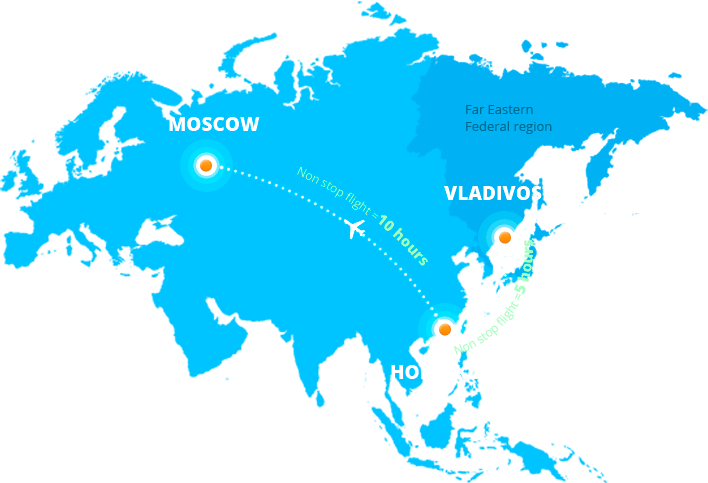
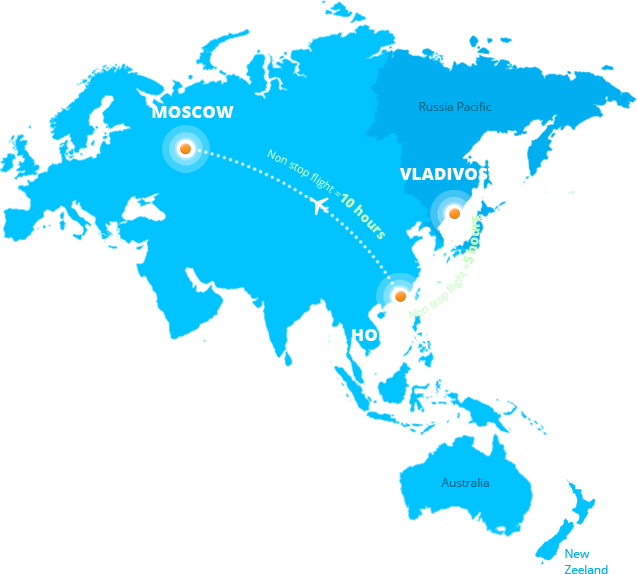
Добавить коммент

diff --git a/rusapai/css/main.css b/rusapai/css/main.css
@@ -7,6 +7,7 @@
 #page {
 	background: url("../images/top-bg.png") center -55px no-repeat;
 	height: 1588px;
+	min-width: 1000px;
 }
 body {
 	font-size: 1.000em;
@@ -61,6 +62,9 @@ footer #individ {
 	background: -ms-linear-gradient(top,  rgba(12,13,13,1) 0%,rgba(16,22,23,1) 35%,rgba(8,29,37,1) 70%,rgba(1,30,45,1) 99%,rgba(0,0,0,1) 100%);
 	background: linear-gradient(to bottom,  rgba(12,13,13,1) 0%,rgba(16,22,23,1) 35%,rgba(8,29,37,1) 70%,rgba(1,30,45,1) 99%,rgba(0,0,0,1) 100%);
 	filter: progid:DXImageTransform.Microsoft.gradient( startColorstr='#0c0d0d', endColorstr='#000000',GradientType=0 );
+
+	position: relative;
+	z-index: 10;
 }
 #page header section {
 	position: relative;
@@ -128,6 +132,58 @@ footer #individ {
 	display: none;
 }
 
+#page #content #maintop {
+	position: relative;
+}
+#page #content #maintop .map {
+	text-align: center;
+	width: 960px;
+	position: relative;
+	left: 2%;
+	margin: 10% auto 0px auto;
+	height: 544px;
+}
+#page #content #maintop .map h1 {
+	font-family: 'Open Sans';
+	font-size: 2.750em;
+	color: #ffffff;
+	font-weight: 300;
+	text-align: left;
+	line-height: 130%;
+	z-index: 5;
+	position: relative;
+	-webkit-transition: all 0.5s;
+	transition: all 0.5s;
+}
+#page #content #maintop .map h1 strong {
+	font-weight: 800;
+	position: relative;
+	top: -5px;
+}
+#page #content #maintop .map h1 span {
+	line-height: 150%;
+	font-weight: 300;
+}
+#page #content #maintop .map h1 strong, #page #content #maintop .map h1 span {
+	background: #061d28;
+	font-style: normal;
+	padding: 0px 20px 0px 15px;
+	display: inline-block;
+}
+#page #content #maintop .map h2 {
+	position: relative;
+	top: -3px;
+}
+#page #content #maintop .map img {
+	position: absolute;
+	top: -31%;
+	left: 30%;
+	z-index: 3;
+	-webkit-transition: all 0.5s;
+	transition: all 0.5s;
+	max-width: 113%;
+}
+
 @media (max-width: 980px) {
 	footer section {
 		width: 90%;
@@ -147,6 +203,36 @@ footer #individ {
 		width: 100%;
 		padding-left: 0px;
 		padding-right: 0px;
+	}
+	#page #content #maintop .map {
+		width: 90%;
+	}
+	#page {
+		min-width: 100%;
+	}
+	body {
+		overflow-x: hidden;
+	}
+}
+@media (max-width: 640px) {
+	#page {
+		background: url("../images/top-bg_640.jpg") center 110px no-repeat;
+	}
+	#page #content #maintop .map {
+		height: 675px;
+	}
+	#page #content #maintop .map img {
+		top: auto;
+		bottom: 100px;
+		left: -7%;
+		max-width: 113%;
+	}
+	#page #content #maintop .map h1, #page #content #maintop .map h2 {
+		font-size: 1.875em;
+		line-height: 160%;
+	}
+	#page #content #maintop .map {
+		margin-top: 7%;
 	}
 }
 @media (max-width: 550px) {
@@ -218,40 +304,26 @@ footer #individ {
 		position: relative;
 		top: -1px;
 	}
-}
-
-#page #content #maintop {
-	position: relative;
-}
-#page #content #maintop .map {
-	text-align: center;
-	margin-top: 120px;
-	margin-left: 205px;
-}
-#page #content #maintop .map h1, #page #content #maintop .map h2 {
-	font-family: 'Open Sans';
-	font-size: 44px;
-	color: #ffffff;
-	font-weight: 800;
-	text-align: left;
-	z-index: 5;
-	position: relative;
-}
-#page #content #maintop .map h2 {
-	font-weight: 300;
-}
-#page #content #maintop .map i {
-	background: #061d28;
-	font-style: normal;
-	padding: 10px 20px 0px 15px;
-	line-height: 130%;
-}
-#page #content #maintop .map span {
-	background: url("../images/map.png") right center no-repeat;
-	width: 708px;
-	height: 483px;
-	position: absolute;
-	top: -130px;
-	left: 490px;
-	z-index: 3;
+	#page {
+		background: #ffffff;
+	}
+	#page #content #maintop .map h1, #page #content #maintop .map h2 {
+		font-size: 1.563em;
+		line-height: 160%;
+		margin-left: 4%;
+	}
+	#page #content #maintop .map h1 {
+		padding-top: 4%;
+	}
+	#page #content #maintop .map {
+		background: #0e6fb3 url("../images/map_320.jpg") center bottom no-repeat;
+		height: 380px;
+		padding: 0px;
+		margin: 0px;
+		width: 100%;
+		left: 0%;
+	}
+	#page #content #maintop .map img {
+		display: none;
+	}
 }

diff --git a/rusapai/Maket1 - 01 - 01- main.html b/rusapai/Maket1 - 01 - 01- main.html
@@ -31,10 +31,8 @@
 			<div id="content">
 				<section id="maintop">
 					<div class="map">
-						<h1><i>OPEN RUSSIA via</i></h1>
-						<h2><i>Russian Asian Pacific</i></h2>
-						<h2><i>Advertising Initiative</i></h2>
-						<span></span>
+						<h1><span>OPEN RUSSIA via</span><br /><strong>Russian Asian Pacific<br />Advertising Initiative</strong></h1>
+						<img src="./images/map.png" alt="" />
 					</div>
 				</section>
 				<section id="wwt">
